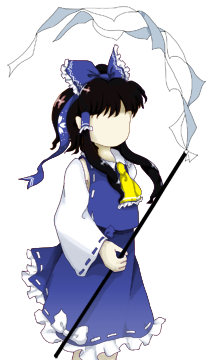
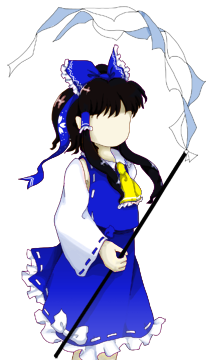
Better colors for th13

diff --git a/bl_reimu/files.js b/bl_reimu/files.js
@@ -35,10 +35,10 @@
 	"th12/player/pl00/pl00.png": 2411198151,
 	"th12/title/sl_pl00.png": 2849715142,
 	"th12/title/title00a.png": 955815600,
-	"th13/face/pl00/face_pl00bs.png": 1932087640,
-	"th13/face/pl00/title_pl00.png": 3777942789,
-	"th13/player/pl00/pl00.png": 2411198151,
-	"th13/title/title00a.png": 3624165049,
+	"th13/face/pl00/face_pl00bs.png": 636977278,
+	"th13/face/pl00/title_pl00.png": 30939457,
+	"th13/player/pl00/pl00.png": 4061018133,
+	"th13/title/title00a.png": 1471153235,
 	"th14/face/pl00/face_pl00bs.png": 3888529439,
 	"th14/face/pl00/face_pl00bs2.png": 3220248634,
 	"th14/face/pl00/title_pl00.png": 3484150275,
